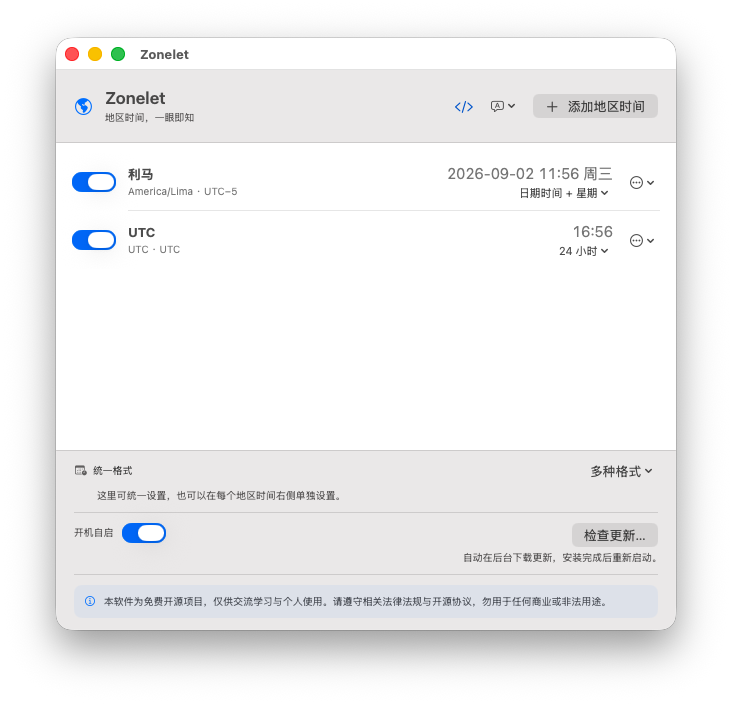
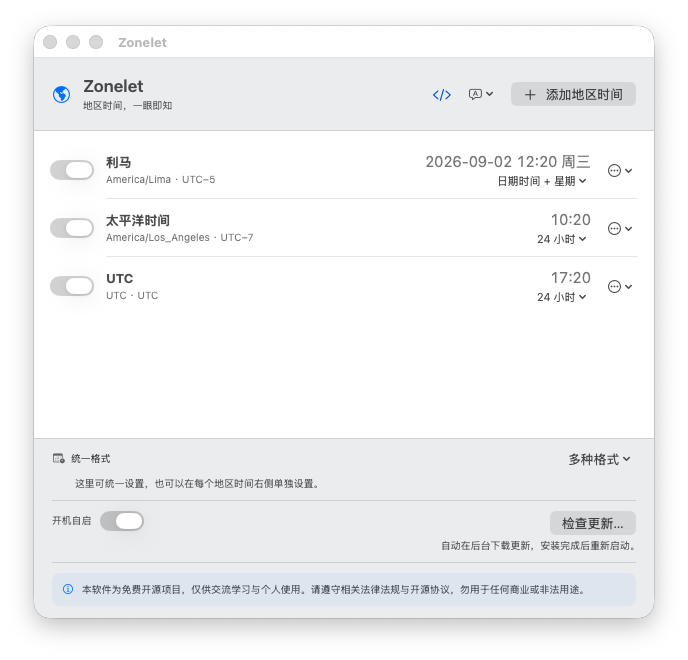
Explain day changes and add Pacific time aliases

Changed region(s): [[0.0305, 0.1212, 0.9462, 0.9697], [0.061, 0.0303, 0.8852, 0.0909], [0.3358, 0.3333, 0.3663, 0.3636]]

diff --git a/Sources/Zonelet/Support/ClockPresentation.swift b/Sources/Zonelet/Support/ClockPresentation.swift
@@ -42,20 +42,12 @@ enum ClockPresentation {
     static func menuTitle(
         for clock: ZoneClock,
         at date: Date = .now,
+        language: AppLanguage = .english,
         maxLength: Int = 30
     ) -> String {
         let time = timeString(at: date, in: clock.timeZone, format: clock.effectiveDisplayFormat)
         let offset = dayOffset(at: date, to: clock.timeZone)
-        let dayMarker: String
-
-        switch offset {
-        case let value where value > 0:
-            dayMarker = " +\(value)"
-        case let value where value < 0:
-            dayMarker = " \(value)"
-        default:
-            dayMarker = ""
-        }
+        let dayMarker = dayMarker(for: offset, language: language)
 
         let title = "\(clock.label) \(time)\(dayMarker)"
         return title.count <= maxLength ? title : String(title.prefix(maxLength - 1)) + "…"
@@ -64,21 +56,41 @@ enum ClockPresentation {
     static func statusTitle(
         for clock: ZoneClock,
         at date: Date = .now,
+        language: AppLanguage = .english,
         isLast: Bool
     ) -> String {
-        let title = menuTitle(for: clock, at: date, maxLength: isLast ? 30 : 28)
+        let title = menuTitle(
+            for: clock,
+            at: date,
+            language: language,
+            maxLength: isLast ? 30 : 28
+        )
         return isLast ? title : "\(title)  │"
     }
 
     static func statusTitle(
         for clocks: [ZoneClock],
-        at date: Date = .now
+        at date: Date = .now,
+        language: AppLanguage = .english
     ) -> String {
         guard !clocks.isEmpty else { return "Zonelet" }
         let maxLength = clocks.count == 1 ? 30 : 28
         return clocks
-            .map { menuTitle(for: $0, at: date, maxLength: maxLength) }
+            .map { menuTitle(for: $0, at: date, language: language, maxLength: maxLength) }
             .joined(separator: "  │  ")
+    }
+
+    private static func dayMarker(for offset: Int, language: AppLanguage) -> String {
+        guard offset != 0 else { return "" }
+
+        return switch (language, offset) {
+        case (.simplifiedChinese, -1): " 昨天"
+        case (.simplifiedChinese, 1): " 明天"
+        case (.simplifiedChinese, let value): " \(value > 0 ? "+" : "")\(value)天"
+        case (.english, -1): " Yesterday"
+        case (.english, 1): " Tomorrow"
+        case (.english, let value): " \(value > 0 ? "+" : "")\(value)d"
+        }
     }
 
     private static func dayComponents(at date: Date, in timeZone: TimeZone) -> DateComponents {

diff --git a/Tests/ZoneletTests/ClockPresentationTests.swift b/Tests/ZoneletTests/ClockPresentationTests.swift
@@ -54,6 +54,20 @@ struct ClockPresentationTests {
         #expect(title.components(separatedBy: "│").count == 2)
     }
 
+    @Test("Explains day differences with friendly Chinese words")
+    func localizedDayDifference() throws {
+        let date = try #require(ISO8601DateFormatter().date(from: "2026-09-02T16:30:00Z"))
+        let lima = ZoneClock(timeZoneIdentifier: "America/Lima", label: "利马")
+        let title = ClockPresentation.menuTitle(
+            for: lima,
+            at: date,
+            language: .simplifiedChinese
+        )
+
+        #expect(title.contains("昨天"))
+        #expect(!title.contains(" -1"))
+    }
+
     @Test("Formats date and time with a custom pattern")
     func customDateAndTimeFormat() throws {
         let date = try #require(ISO8601DateFormatter().date(from: "2026-09-02T08:05:00Z"))
@@ -137,6 +151,18 @@ struct ClockPresentationTests {
             TimeZoneCatalog.cityName(for: "America/Lima", language: .simplifiedChinese) == "利马"
         )
         #expect(TimeZoneCatalog.cityName(for: "UTC") == "UTC")
+    }
+
+    @Test("Finds Pacific time by Chinese and common abbreviations")
+    func pacificTimeSearchAliases() throws {
+        let pacific = try #require(
+            TimeZoneCatalog.candidates(language: .simplifiedChinese)
+                .first { $0.id == "America/Los_Angeles" }
+        )
+
+        #expect(pacific.matches("太平洋标准时间"))
+        #expect(pacific.matches("PST"))
+        #expect(pacific.matches("PDT"))
     }
 
     @MainActor

diff --git a/Sources/Zonelet/Support/TimeZoneCatalog.swift b/Sources/Zonelet/Support/TimeZoneCatalog.swift
@@ -4,6 +4,14 @@ struct TimeZoneCandidate: Identifiable, Hashable {
     let id: String
     let name: String
     let detail: String
+    let searchTerms: [String]
+
+    func matches(_ query: String) -> Bool {
+        name.localizedCaseInsensitiveContains(query) ||
+            id.localizedCaseInsensitiveContains(query) ||
+            detail.localizedCaseInsensitiveContains(query) ||
+            searchTerms.contains { $0.localizedCaseInsensitiveContains(query) }
+    }
 }
 
 enum TimeZoneCatalog {
@@ -15,7 +23,8 @@ enum TimeZoneCatalog {
             return TimeZoneCandidate(
                 id: identifier,
                 name: cityName(for: identifier, language: language),
-                detail: "\(identifier)  ·  \(gmtOffset(for: zone))"
+                detail: "\(identifier)  ·  \(gmtOffset(for: zone))",
+                searchTerms: searchAliases[identifier] ?? []
             )
         }
         .sorted {
@@ -53,6 +62,19 @@ enum TimeZoneCatalog {
         "Europe/Berlin": "柏林",
         "Europe/London": "伦敦",
         "Europe/Paris": "巴黎"
+    ]
+
+    private static let searchAliases: [String: [String]] = [
+        "America/Los_Angeles": [
+            "太平洋时间",
+            "太平洋标准时间",
+            "太平洋夏令时间",
+            "Pacific Time",
+            "Pacific Standard Time",
+            "Pacific Daylight Time",
+            "PST",
+            "PDT"
+        ]
     ]
 
     static func gmtOffset(for zone: TimeZone, at date: Date = .now) -> String {

diff --git a/Sources/Zonelet/Services/StatusBarController.swift b/Sources/Zonelet/Services/StatusBarController.swift
@@ -57,7 +57,11 @@ final class StatusBarController: NSObject {
     private func updateStatusItem(at date: Date = .now) {
         guard let statusItem else { return }
         let visibleClocks = store.clocks.filter(\.isVisible)
-        statusItem.button?.title = ClockPresentation.statusTitle(for: visibleClocks, at: date)
+        statusItem.button?.title = ClockPresentation.statusTitle(
+            for: visibleClocks,
+            at: date,
+            language: languageStore.language
+        )
         statusItem.button?.toolTip = visibleClocks.isEmpty
             ? "Zonelet"
             : visibleClocks.map(\.timeZoneIdentifier).joined(separator: " · ")

diff --git a/docs/index.html b/docs/index.html
@@ -43,8 +43,8 @@
       </div>
 
       <figure class="product-stage">
-        <img src="zonelet-live.png?v=20260903-2" alt="Zonelet 真实运行界面：显示利马与 UTC 两个地区时间" width="732" height="704">
-        <figcaption>真实运行截图 · 利马与 UTC 示例</figcaption>
+        <img src="zonelet-live.png?v=20260903-3" alt="Zonelet 真实运行界面：显示利马、太平洋时间与 UTC" width="688" height="660">
+        <figcaption>真实运行截图 · 利马、太平洋时间与 UTC 示例</figcaption>
       </figure>
     </section>
 

diff --git a/Sources/Zonelet/Views/AddZoneView.swift b/Sources/Zonelet/Views/AddZoneView.swift
@@ -15,11 +15,7 @@ struct AddZoneView: View {
         guard !query.isEmpty else { return Array(available.prefix(120)) }
 
         return Array(
-            available.filter {
-                $0.name.localizedCaseInsensitiveContains(query) ||
-                    $0.id.localizedCaseInsensitiveContains(query) ||
-                    $0.detail.localizedCaseInsensitiveContains(query)
-            }
+            available.filter { $0.matches(query) }
             .prefix(120)
         )
     }

diff --git a/README.md b/README.md
@@ -10,13 +10,13 @@
 
 ## 功能
 
-- 添加任意地区时间；首次启动默认只有 UTC
+- 添加任意地区时间；支持“太平洋时间 / PST / PDT”等常用搜索词，首次启动默认只有 UTC
 - 默认简体中文，也可切换 English
 - 可一键统一全部地区时间格式，也可单独设置每个地区，并实时预览
 - 多个地区时间之间自动显示分隔符
 - 所有已启用地区时间集中在一个稳定的菜单栏项目中显示
 - 单独控制菜单栏显示、重命名和排序
-- 跨日时显示 `+1` 或 `-1`
+- 跨日时直接显示“昨天”或“明天”
 - 可选择是否开机自启；默认开启，启动时只驻留菜单栏、不弹出主界面
 - 登录项注册失败时可重新检测，并提示确认应用安装位置
 - 自动在后台下载更新，安装完成后重新启动
